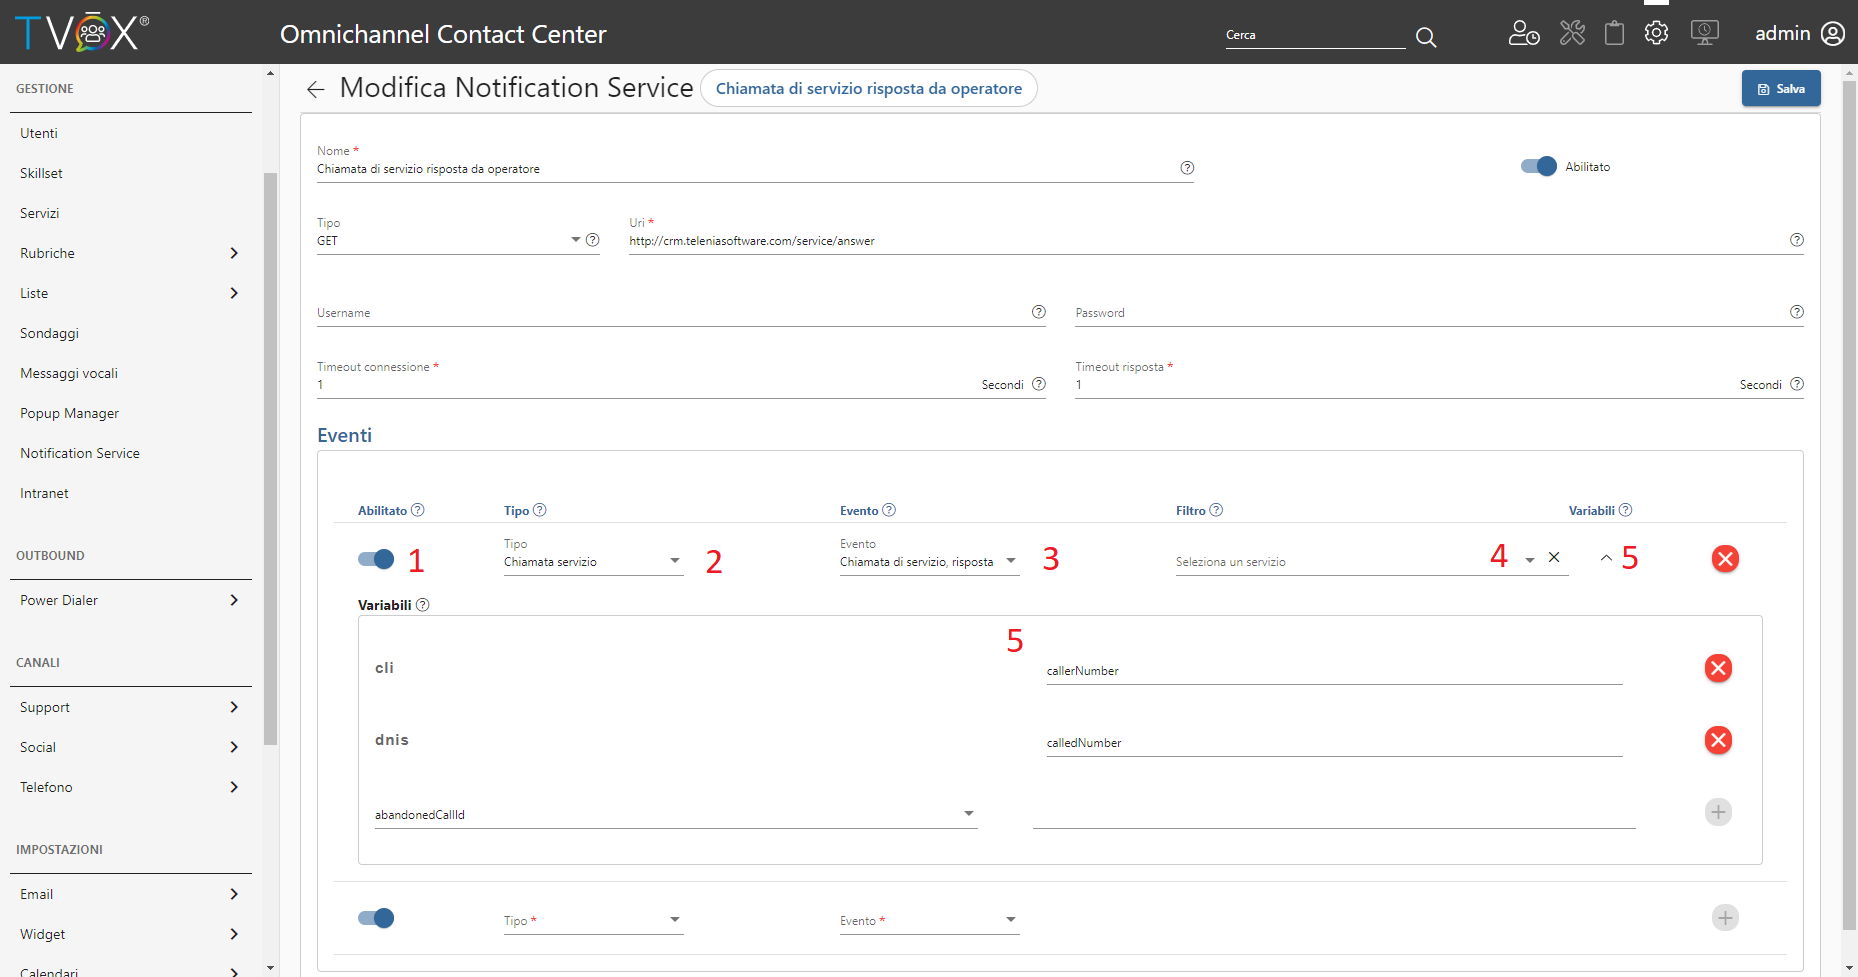
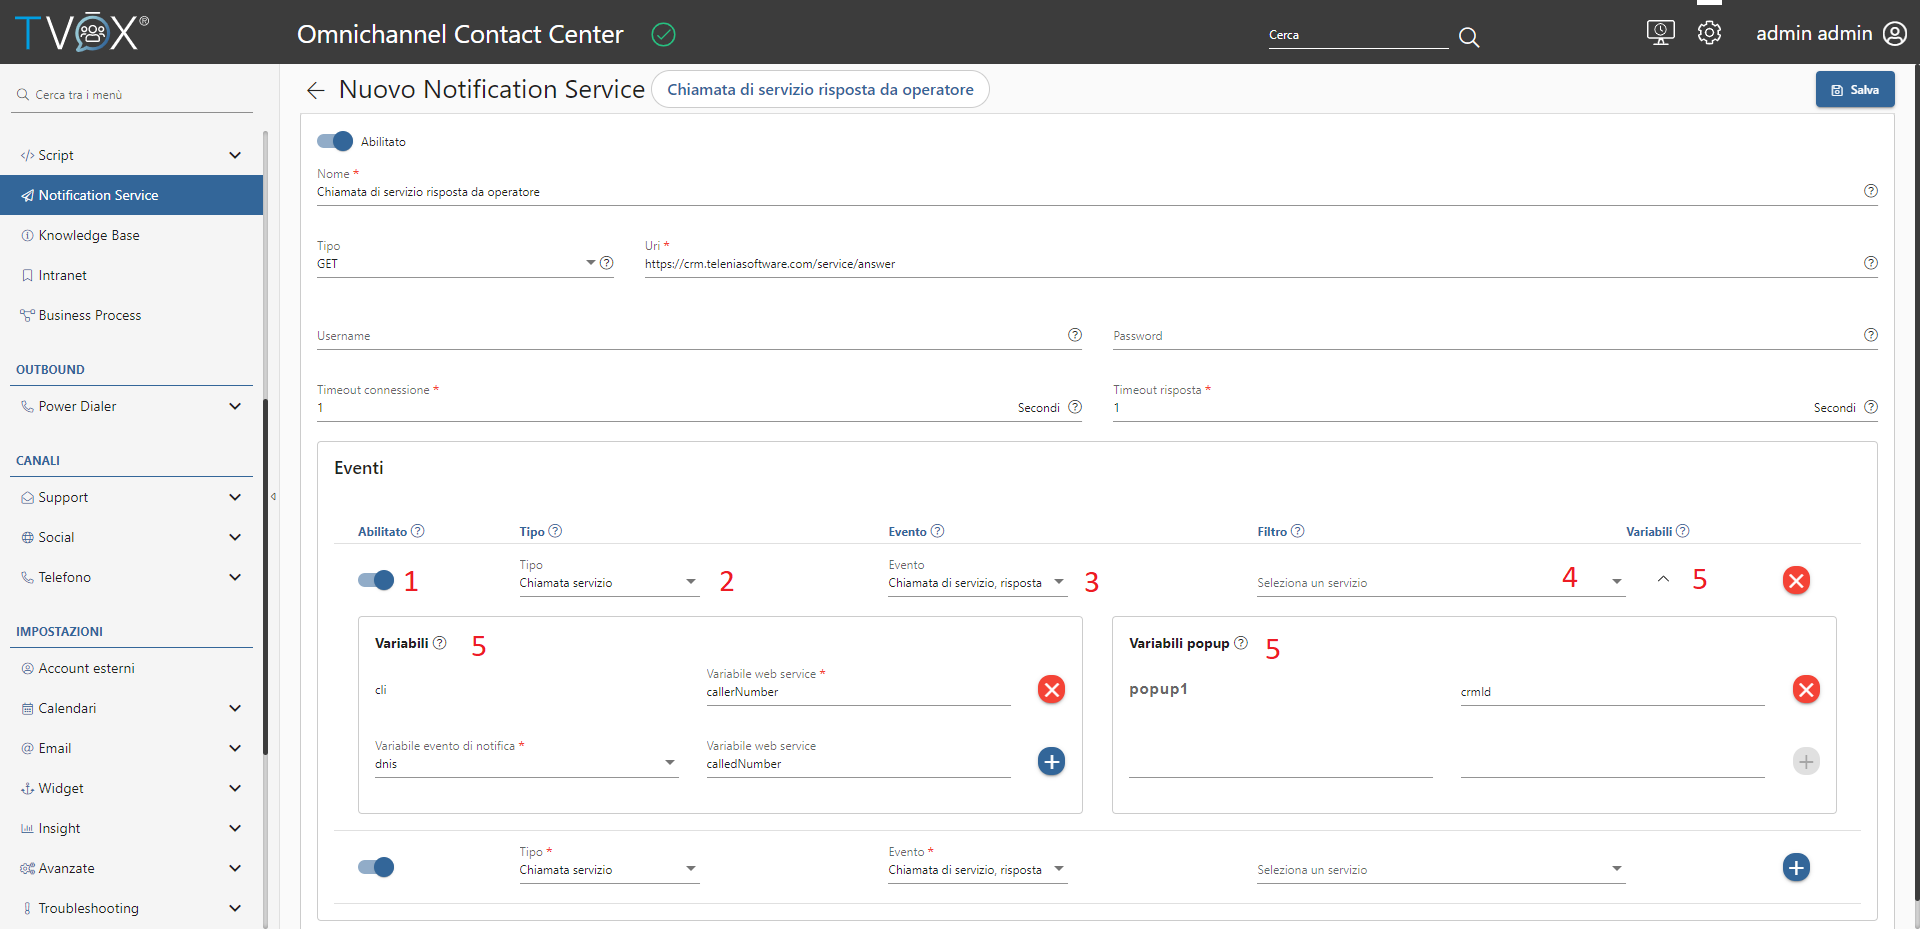
[Documentazione ][Caseificio Elda srl] 21.0.30 - Notification Service: ritorno variabile ID univoco ad EDALAB
Ref https://gitlab.teleniasoftware.com/telenia-software/customers/caseificio-elda/-/issues/9

diff --git a/source/projects/CRMMemorizzaInterazioni/ConfiguraNotificationService.rst b/source/projects/CRMMemorizzaInterazioni/ConfiguraNotificationService.rst
@@ -40,7 +40,13 @@ Ora approfondiamo la configurazione degli eventi:
 #. **Tipo**: tipologia della chiamata da notificare
 #. **Evento**: evento da notificare in base al tipo di chiamata selezionato
 #. **Filtro** (*Opzionale*): se l'evento riguarda una chiamata di servizio, è possibile filtrare l'evento su un singolo servizio 
-#. **Variabili**: mappa chiave/chiave delle informazioni dell'evento da notificare al Web Service
+#. **Variabili**: 
+
+    #. *Variabili*, mappa chiave TVox / chiave Web Service delle informazioni dell'evento da notificare al Web Service
+    #. *Variabili popup*, mappa chiave TVox / chiave Web Service delle informazioni di popup dell'evento da notificare al Web Service; queste variabili possono essere definite nei flussi IVR/BPM per le seguenti tipologie di chiamata:
+
+        - Chiamata servizio (sia Servizio Contact Center che Servizio di Risposta)
+        - Outbound (nel caso di IVR/BPM convolti da campagne telefoniche di Power Dialer) 
 
 La descrizione dettagliata degli eventi e delle variabili configurabili può essere trovata nella documentazione tecnica.
 

diff --git a/source/projects/PopupSchedaContatto/NotificationService.rst b/source/projects/PopupSchedaContatto/NotificationService.rst
@@ -41,7 +41,13 @@ Ora approfondiamo la configurazione degli eventi:
 #. **Tipo**: tipologia della chiamata da notificare
 #. **Evento**: evento da notificare in base al tipo di chiamata selezionato
 #. **Filtro** (*Opzionale*): se l'evento riguarda una chiamata di servizio, è possibile filtrare l'evento su un singolo servizio 
-#. **Variabili**: mappa chiave/chiave delle informazioni dell'evento da notificare al Web Service
+#. **Variabili**: 
+
+    #. *Variabili*, mappa chiave TVox / chiave Web Service delle informazioni dell'evento da notificare al Web Service
+    #. *Variabili popup*, mappa chiave TVox / chiave Web Service delle informazioni di popup dell'evento da notificare al Web Service; queste variabili possono essere definite nei flussi IVR/BPM per le seguenti tipologie di chiamata:
+
+        - Chiamata servizio (sia Servizio Contact Center che Servizio di Risposta)
+        - Outbound (nel caso di IVR/BPM convolti da campagne telefoniche di Power Dialer) 
 
 La descrizione dettagliata degli eventi e delle variabili configurabili può essere trovata nella documentazione tecnica.
 
